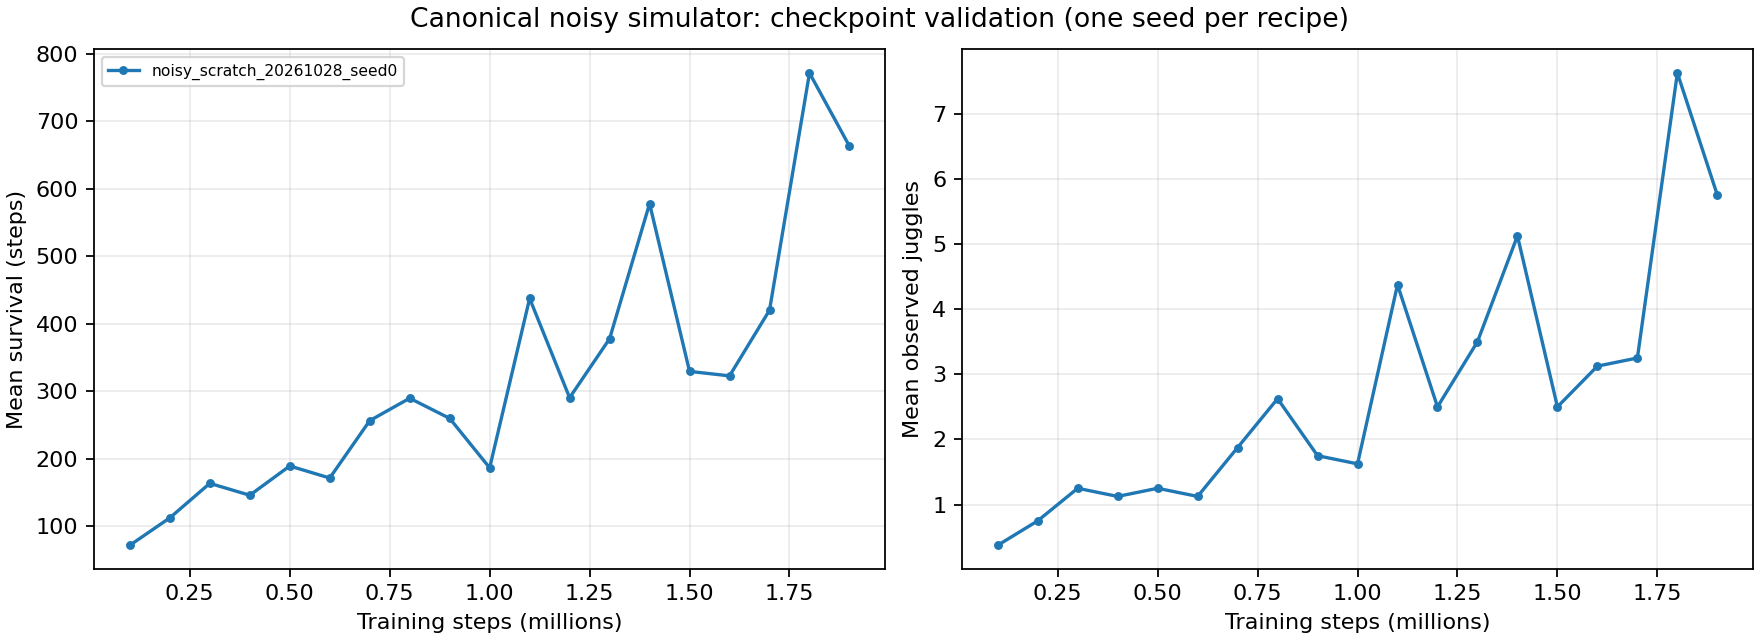
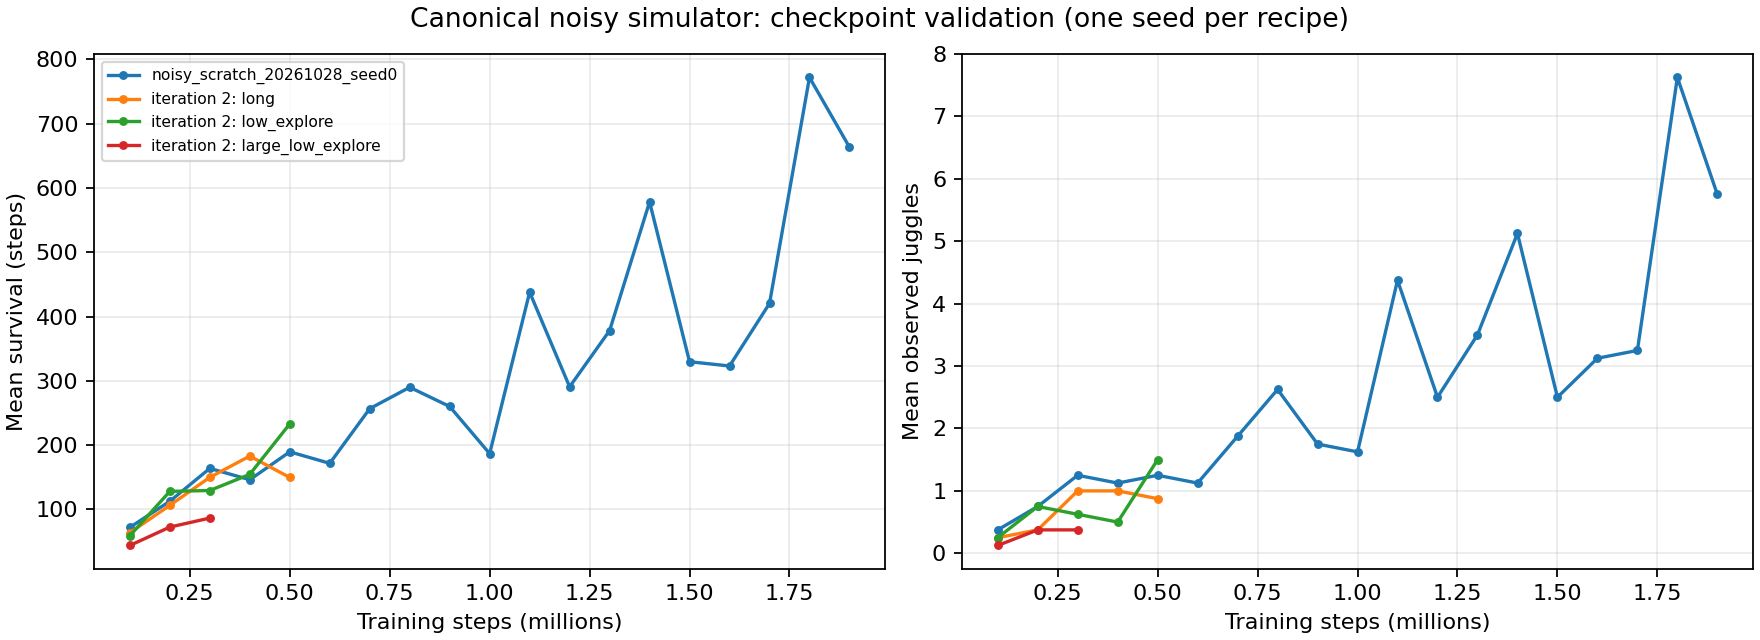
Publish 500k noisy exploration comparison and rollout

diff --git a/scripts/analysis/juggle_progress.py b/scripts/analysis/juggle_progress.py
@@ -31,6 +31,7 @@ def collect(root):
             step=int(result.parents[1].name.split("_")[-1]),
             mean_steps=summary["restricted_mean_steps"],
             mean_juggles=summary["mean_juggles"],
+            mean_true_state_juggles=summary.get("mean_true_state_juggles"),
             cap_fraction=summary["sustained_juggling_fraction"],
             episodes=payload["episodes_per_scenario"],
             seed_base=payload["seed_base"],
@@ -84,15 +85,21 @@ def write_report(roots, out):
             lines.append(f"| {root.name} | {v['step']:,} | {v['mean_steps']:.1f} | {v['mean_juggles']:.2f} | {v['cap_fraction']:.1%} |")
         else:
             lines.append(f"| {root.name} | No saved validation | — | — | — |")
-    lines += ["", "Final-actor evaluations (separate starts):", ""]
+    lines += ["", "Separate-start evaluations (selection and benchmark phases labeled):", ""]
     for root, _ in series:
-        result = root / "final_eval/results.json"
-        if result.exists():
-            payload = json.loads(result.read_text())
-            s = payload["scenarios"]["training"]["summary"]
-            lines.append(f"- [{root.name}]({link(result)}): {s['restricted_mean_steps']:.1f} mean steps, "
-                         f"{s['mean_juggles']:.2f} mean juggles, {s['sustained_juggling_fraction']:.1%} cap completion; "
-                         f"{payload['episodes_per_scenario']} starts from seed {payload['seed_base']}, cap {payload['horizon']}.")
+        for directory, phase in (("final_eval", "final actor benchmark"),
+                                 ("selected_eval", "validation-selected checkpoint benchmark"),
+                                 ("selected_paired_eval", "paired selected checkpoint"),
+                                 ("final_paired_eval", "paired final actor")):
+            result = root / directory / "results.json"
+            if result.exists():
+                payload = json.loads(result.read_text())
+                s = payload["scenarios"]["training"]["summary"]
+                true_count = (f", {s['mean_true_state_juggles']:.2f} physical-trajectory juggles"
+                              if "mean_true_state_juggles" in s else "")
+                lines.append(f"- [{root.name}, {phase}]({link(result)}): {s['restricted_mean_steps']:.1f} mean steps, "
+                             f"{s['mean_juggles']:.2f} observed juggles{true_count}, {s['sustained_juggling_fraction']:.1%} cap completion; "
+                             f"{payload['episodes_per_scenario']} starts from seed {payload['seed_base']}, cap {payload['horizon']}.")
     lines += ["", "The final-start benchmark is reused across recipes. A selected policy requires untouched seeds "
               "and longer horizons before acceptance. Bounded survival does not prove infinite survival."]
     out.write_text("\n".join(lines) + "\n")

diff --git a/docs/juggling-noisy-progress.md b/docs/juggling-noisy-progress.md
@@ -1,6 +1,6 @@
 # Noisy juggling progress
 
-Generated 2026-10-29T17:18:54.089202+00:00 from saved evaluations; no new rollouts.
+Generated 2026-10-29T17:39:03.225063+00:00 from saved evaluations; no new rollouts.
 
 Validation curves use repeatedly evaluated starts, not independent acceptance tests. Each point is an episode mean for one training seed. Check the CSV for episode counts, seeds and caps. Observed juggle counts use noisy camera positions and a direction-reversal filter. Contact timesteps are not distinct juggles.
 
@@ -11,12 +11,14 @@ Validation curves use repeatedly evaluated starts, not independent acceptance te
 | Run | Latest validation step | Mean survival | Mean juggles | Genuine cap fraction |
 |---|---:|---:|---:|---:|
 | noisy_scratch_20261028_seed0 | 1,900,000 | 663.4 | 5.75 | 0.0% |
-| noisy_iteration2_20261029_long | No saved validation | — | — | — |
-| noisy_iteration2_20261029_low_explore | No saved validation | — | — | — |
-| noisy_iteration2_20261029_large_low_explore | No saved validation | — | — | — |
+| noisy_iteration2_20261029_long | 500,000 | 149.8 | 0.88 | 0.0% |
+| noisy_iteration2_20261029_low_explore | 500,000 | 233.1 | 1.50 | 0.0% |
+| noisy_iteration2_20261029_large_low_explore | 300,000 | 86.6 | 0.38 | 0.0% |
 
-Final-actor evaluations (separate starts):
+Separate-start evaluations (selection and benchmark phases labeled):
 
-- [noisy_scratch_20261028_seed0](../runs/td3/noisy_scratch_20261028_seed0/final_eval/results.json): 416.1 mean steps, 3.78 mean juggles, 0.0% cap completion; 32 starts from seed 200000, cap 10000.
+- [noisy_scratch_20261028_seed0, final actor benchmark](../runs/td3/noisy_scratch_20261028_seed0/final_eval/results.json): 416.1 mean steps, 3.78 observed juggles, 0.0% cap completion; 32 starts from seed 200000, cap 10000.
+- [noisy_scratch_20261028_seed0, paired selected checkpoint](../runs/td3/noisy_scratch_20261028_seed0/selected_paired_eval/results.json): 816.9 mean steps, 7.41 observed juggles, 7.75 physical-trajectory juggles, 0.0% cap completion; 32 starts from seed 300000, cap 10000.
+- [noisy_scratch_20261028_seed0, paired final actor](../runs/td3/noisy_scratch_20261028_seed0/final_paired_eval/results.json): 415.3 mean steps, 3.28 observed juggles, 3.84 physical-trajectory juggles, 0.0% cap completion; 32 starts from seed 300000, cap 10000.
 
 The final-start benchmark is reused across recipes. A selected policy requires untouched seeds and longer horizons before acceptance. Bounded survival does not prove infinite survival.

diff --git a/docs/experiment_logbook.md b/docs/experiment_logbook.md
@@ -6,6 +6,7 @@ Entries and contents are ordered newest first; IDs remain permanent.
 
 ## Table of contents
 
+- [E009 — Reduced exploration leads at the 500k checkpoint](#e009)
 - [E008 — Validation-selected scratch checkpoint doubles paired survival](#e008)
 - [E007 — Verify read-only physical-trajectory diagnostics](#e007)
 - [E006 — Full learning-curve and failure-action analysis](#e006)
@@ -14,6 +15,20 @@ Entries and contents are ordered newest first; IDs remain permanent.
 - [E003 — Original-sensing fine-tuning regression](#e003)
 - [E002 — Clean-simulation iterations and failed transfer](#e002)
 - [E001 — Initial sustained-juggling studies](#e001)
+
+<a id="e009"></a>
+
+## E009 — 2026-10-29 12:39:35 -0500 — Reduced exploration leads at the 500k checkpoint
+
+The reduced-exploration scratch trial has higher mean survival at 500k than the matched baseline, but neither completes the evaluation cap.
+
+**Running E005 status:** Same eight reused validation starts (10000–10007), 5k cap. At 500k, baseline mean survival **149.75** and physical-trajectory juggle heuristic **0.625**; reduced exploration **233.125** and **1.75**. Both 0/8 cap completions. At 400k the ranking was reversed (183.0 versus 154.625), so this single checkpoint is encouraging but insufficient to establish a reliable advantage. The larger-network trial is slower and has only reached its 300k checkpoint: 86.625 mean steps, 0/8 cap completions. Compare capacity at matched steps later.
+
+![Reduced-exploration 500k validation rollout](assets/juggling/noisy-low-explore-500k.gif)
+
+Newly published 2026-10-29 from the first checkpoint-validation episode, 160×357, reduced to 10 fps/64 colors with duration preserved. Individual rollout only. [Updated learning curves](juggling-noisy-progress.md), [CSV including optional physical-trajectory counts](juggling-noisy-progress.csv). Original artifacts: `runs/td3/noisy_iteration2_20261029_low_explore/train/checkpoint_500000/survival_eval/`.
+
+**Decision:** Continue the predeclared 6M-step comparisons. Exploration primitives anneal to the low floor at 500k; the current point does not yet measure extended learning at that floor. No policy, reward, sensing, physics, randomization or configuration changes. All three training processes and all three selected-evaluation waiting workers remain live. [Task A010](agent_logbook.md#a010).
 
 <a id="e008"></a>
 

diff --git a/docs/agent_logbook.md b/docs/agent_logbook.md
@@ -6,6 +6,7 @@ Entries and contents are ordered newest first; IDs remain permanent.
 
 ## Table of contents
 
+- [A010 — Publish the first matched exploration milestone](#a010)
 - [A009 — Publish stronger scratch incumbent and attach checkpoint selection](#a009)
 - [A008 — Separate physical-trajectory diagnostics from noisy juggle counts](#a008)
 - [A007 — Add reproducible progress figures and inspect live learners](#a007)
@@ -15,6 +16,18 @@ Entries and contents are ordered newest first; IDs remain permanent.
 - [A003 — Restore original sensing and matched comparison](#a003)
 - [A002 — Clean diagnostics and evaluation](#a002)
 - [A001 — Continuing-task implementation](#a001)
+
+<a id="a010"></a>
+
+## A010 — 2026-10-29 12:39:35 -0500 — Publish the first matched exploration milestone
+
+Codex checked live training through 500k, refreshed the learning-curve report and published a reduced-exploration checkpoint GIF.
+
+**Evidence/decision:** [E009](experiment_logbook.md#e009) records the first post-annealing checkpoint: reduced exploration 233.125 mean survival steps versus baseline 149.75, both 0/8 capped completions. Retained all planned trials; no early winner declaration. Larger-network comparison is not yet matched in training steps.
+
+**Reporting:** The [generator](../scripts/analysis/juggle_progress.py) now includes physical-trajectory juggle counts in CSV when available, and labels separate final, selected and paired benchmarks in its report. Executed it against all four run roots and checked source means, link existence, TOC coverage and unique anchors. GIF compacted from existing evaluation frames with duration preserved. No fresh rollouts or implementation tests required for this reporting-only update; the 17 prior implementation tests remain historical validation, not rerun here.
+
+**Waiting state:** Launcher PIDs 1214379/1214383/1214388 confirmed live during this task; selection PIDs 1222845/1222846/1222847 also confirmed. Progress logs advanced on each learner. Next substantive comparison is later checkpoints after sustained low-exploration learning. Goal remains active.
 
 <a id="a009"></a>
 

diff --git a/docs/assets/juggling/README.md b/docs/assets/juggling/README.md
@@ -26,3 +26,5 @@ The clean policy is not yet robust to the simulated sensing conditions needed fo
 [Final 2M-step rollout](noisy-scratch-final.gif): mean survival 416.1 steps over 32 fresh starts, 0/32 reaching 10,000 steps. See [E005](../../experiment_logbook.md#e005).
 
 [Validation-selected scratch actor](noisy-scratch-selected.gif): 816.94 mean steps and 7.75 physical-trajectory juggles across 32 paired starts, 0/32 completing 10k. Final actor on those starts: 415.31 steps. Clip generated 2026-10-29, compacted to 10 fps with duration preserved; see [E008](../../experiment_logbook.md#e008).
+
+[Reduced exploration, 500k](noisy-low-explore-500k.gif): first validation rollout; eight-start mean survival 233.125 versus matched baseline 149.75, neither completing the 5k cap. Early running-experiment milestone, not a final result; [E009](../../experiment_logbook.md#e009).
